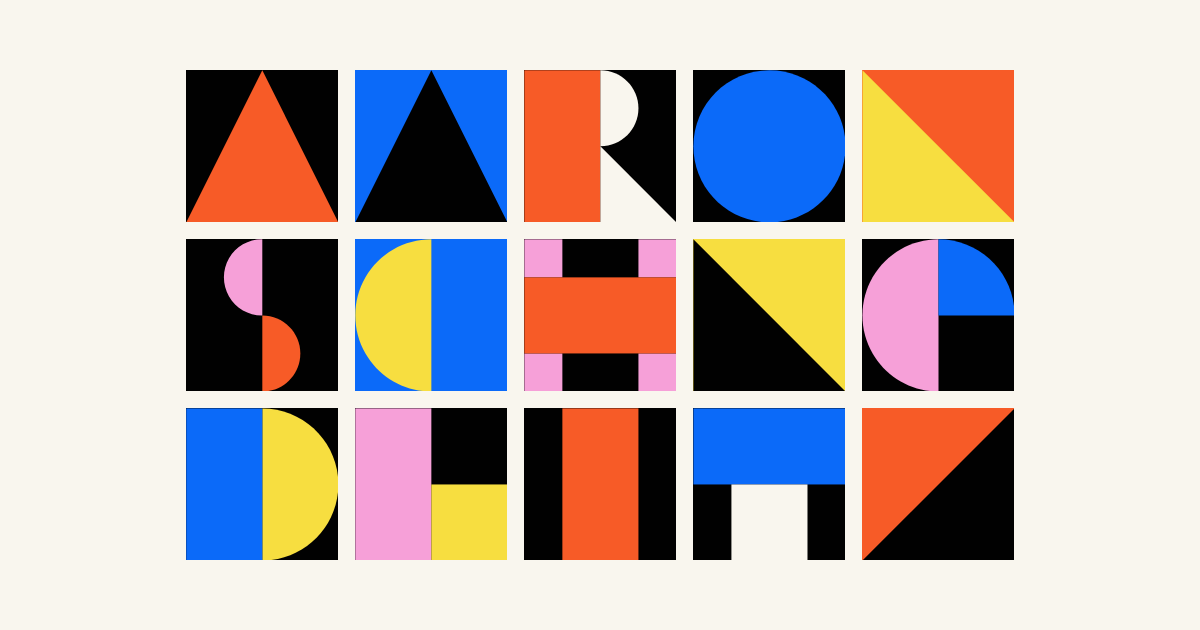
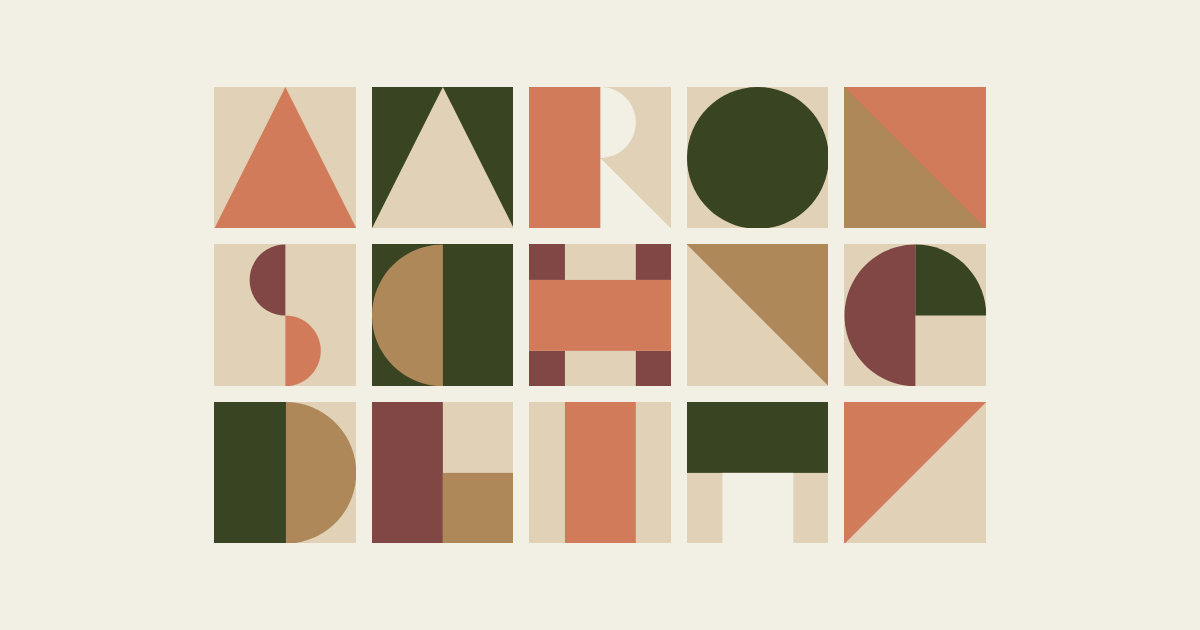
Update palette

diff --git a/global.css b/global.css
@@ -1,14 +1,13 @@
 :root {
-  --dark: #010101;
-  --light: #f9f6ee;
+  --bg: #f2f0e4;
+  --neutral: #e1d1b7;
 
-  --blue: #0b6af9;
-  --red: #f75b27;
-  --pink: #f6a0d8;
-  --yellow: #f7de40;
+  --green: #394422;
+  --orange: #d17b5a;
+  --red: #814745;
+  --yellow: #ae8859;
 
-  --bg: var(--dark);
-  --accent: var(--light);
+  --accent: var(--neutral);
 
   color-scheme: dark;
 }
@@ -63,18 +62,18 @@ path {
 }
 
 .blue {
-  background: var(--blue);
-  fill: var(--blue);
+  background: var(--green);
+  fill: var(--green);
 }
 
 .red {
-  background: var(--red);
-  fill: var(--red);
+  background: var(--orange);
+  fill: var(--orange);
 }
 
 .pink {
-  background: var(--pink);
-  fill: var(--pink);
+  background: var(--red);
+  fill: var(--red);
 }
 
 .yellow {
@@ -93,8 +92,8 @@ path {
 /* REMOVED FOR NOW, DARK LOOKS SO MUCH BETTER
 @media (prefers-color-scheme: light) {
   :root {
-    --bg: var(--light);
-    --accent: var(--dark);
+    --bg: var(--neutral);
+    --accent: var(--bg);
   }
 }
 */

diff --git a/index.html b/index.html
@@ -31,11 +31,11 @@
 
     <meta
       property="og:image"
-      content="https://aaronschnedlitz.com/social-dark.png"
+      content="https://aaronschnedlitz.com/social.png"
     />
     <meta
       name="twitter:image"
-      content="https://aaronschnedlitz.com/social-dark.png"
+      content="https://aaronschnedlitz.com/social.png"
     />
 
     <meta property="og:url" content="https://aaronschnedlitz.com/" />
